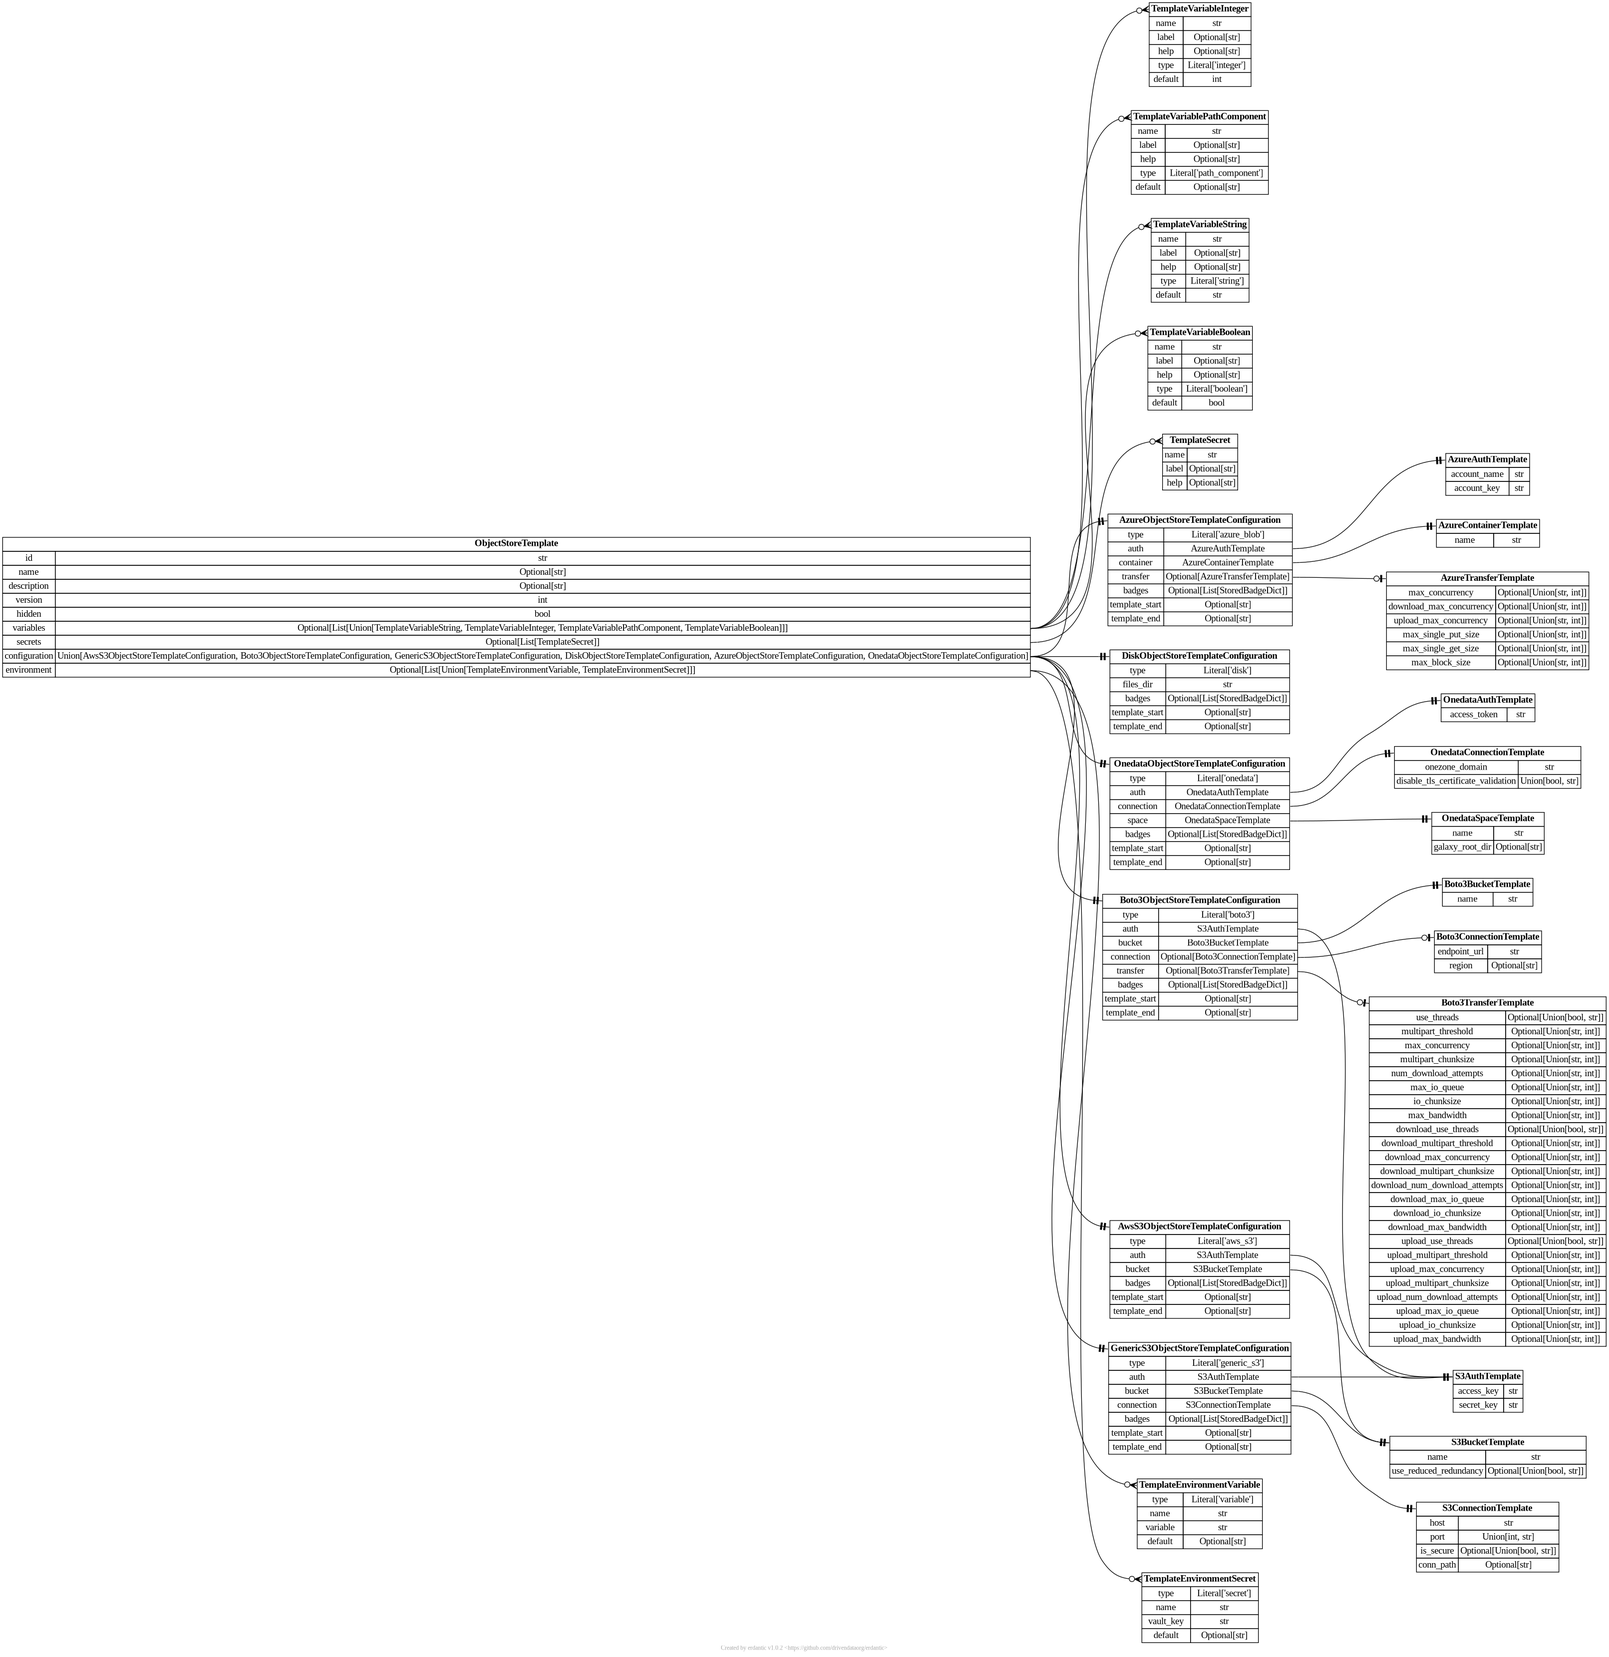
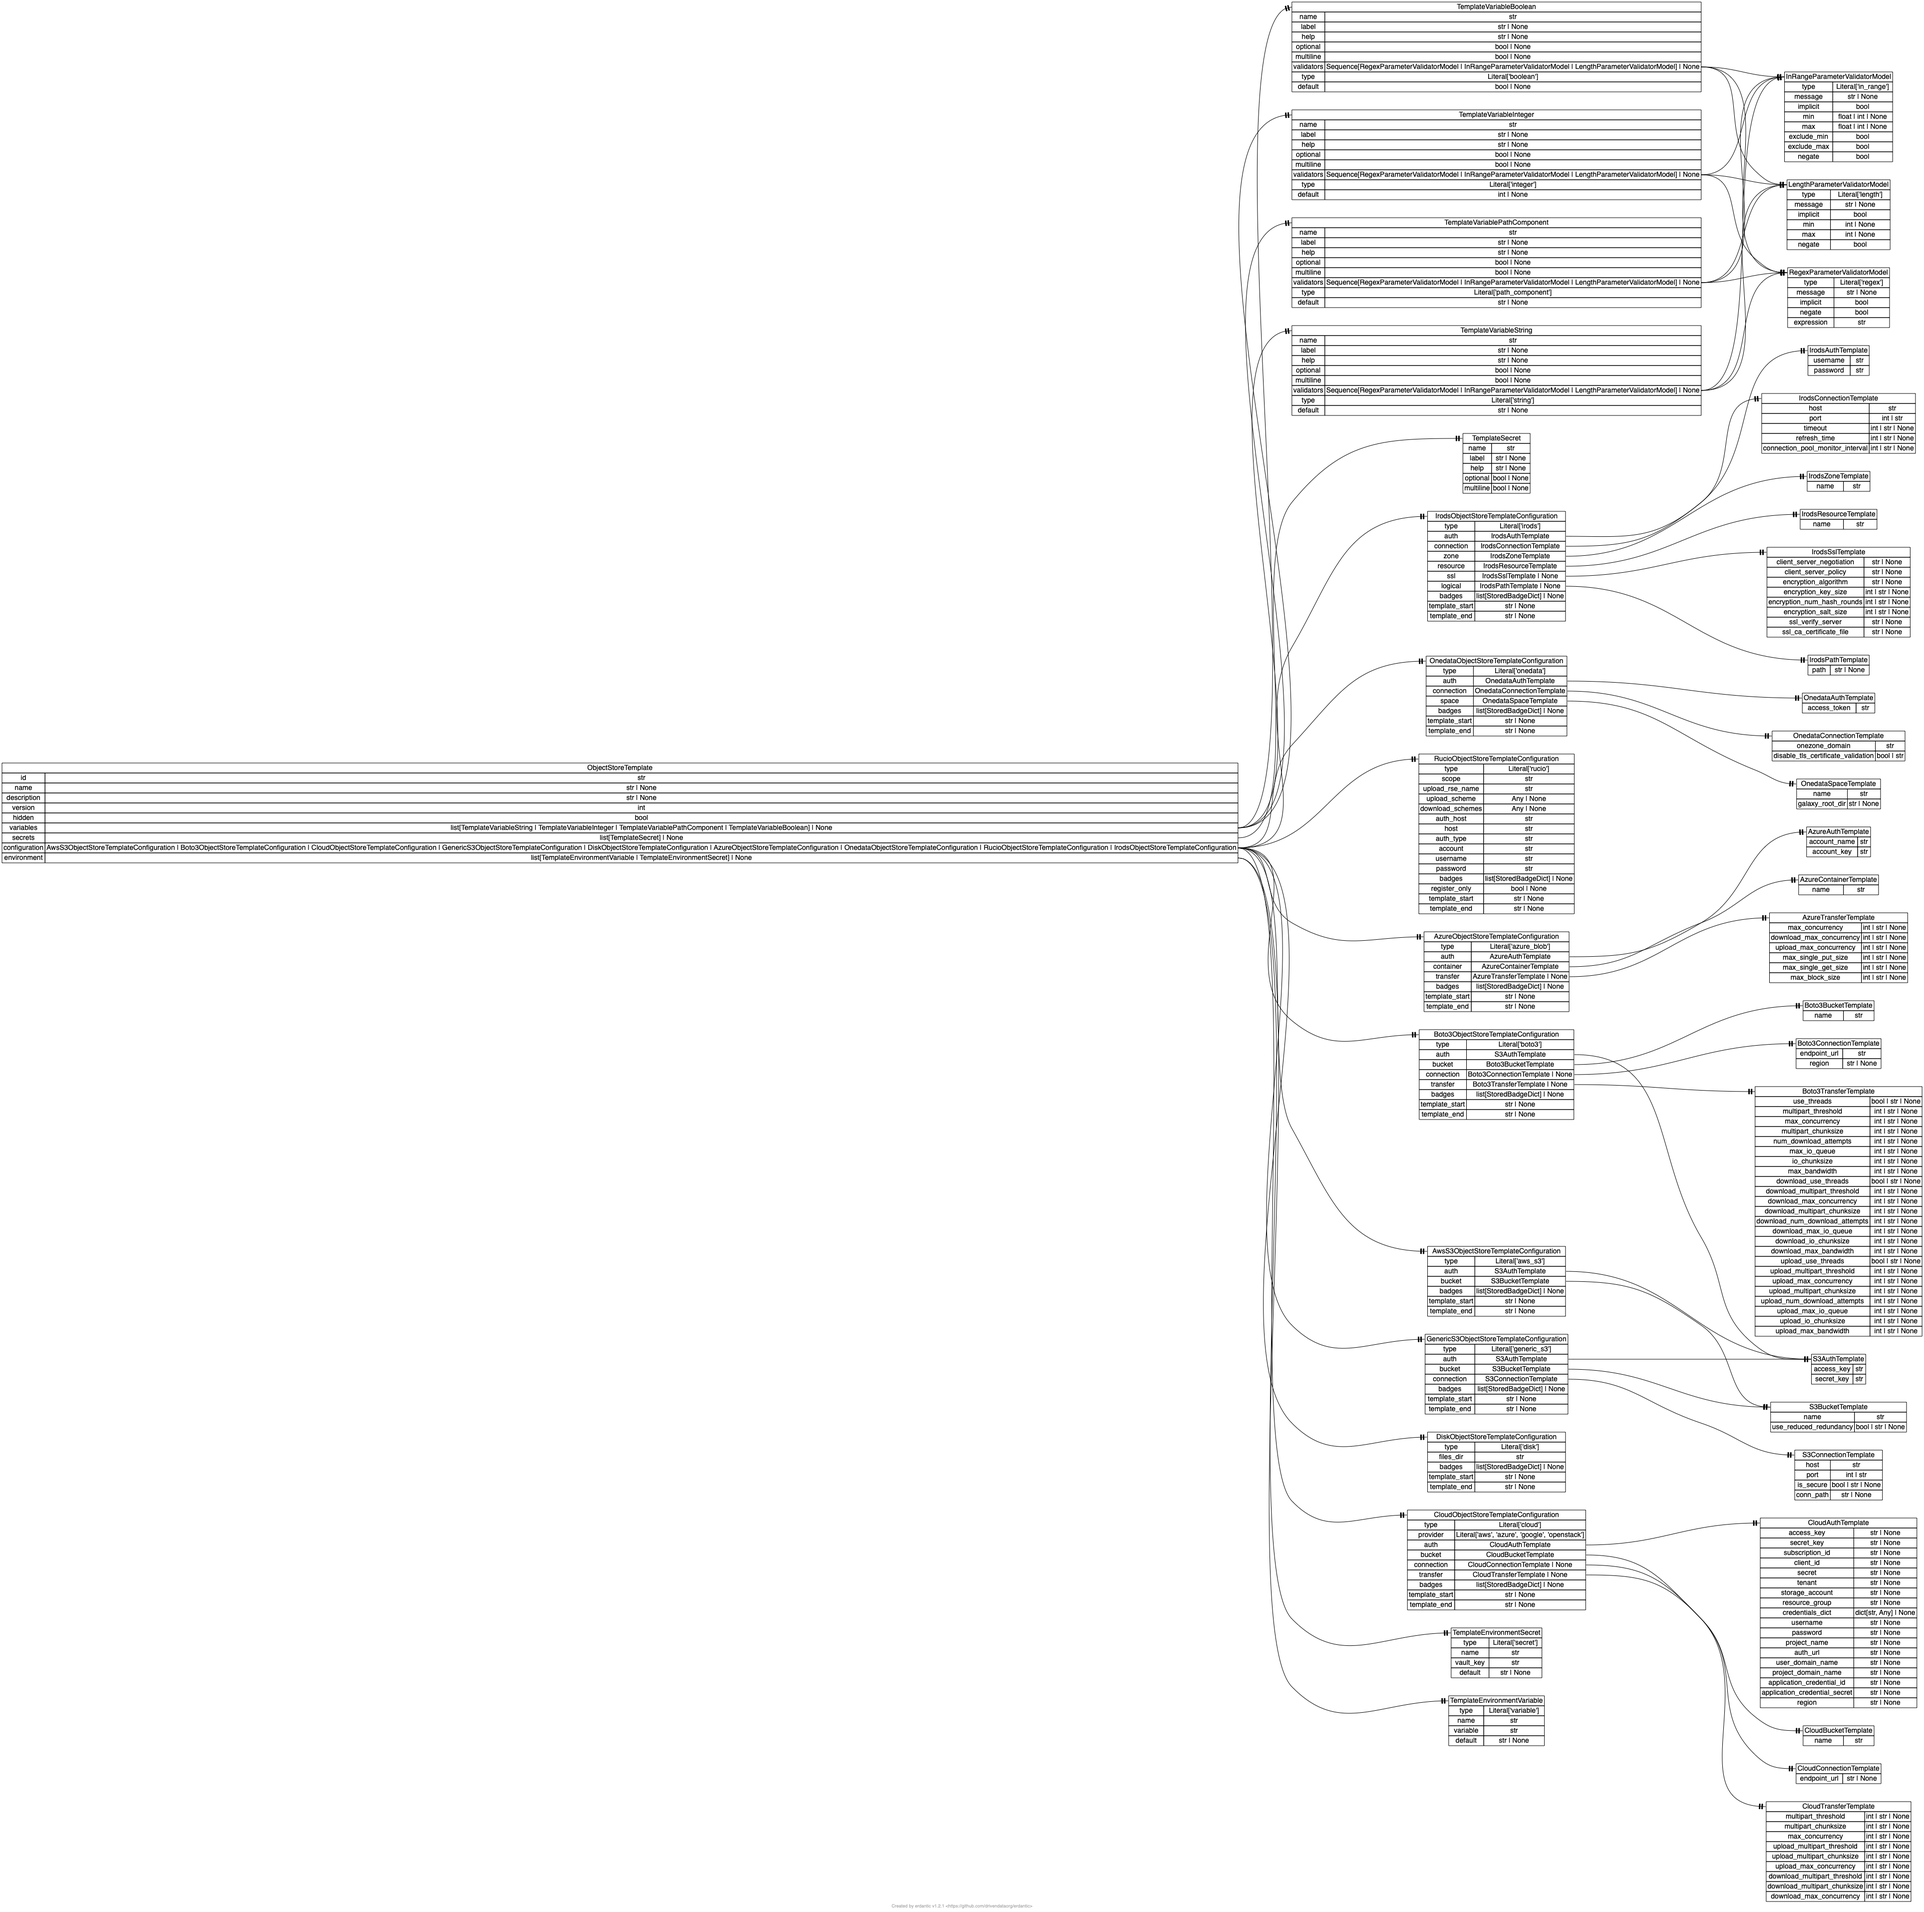
Document the cloud object store template type
Adds the admin-facing section for cloud templates alongside the other
types, generates its two schema diagrams, and notes that the template
surface is deliberately narrower than the global object store config.

Changed region(s): [[0.0, 0.0, 1.0, 0.9934], [0.4654, 0.9934, 0.5585, 1.0]]

diff --git a/doc/source/admin/gen_diagrams.py b/doc/source/admin/gen_diagrams.py
@@ -35,6 +35,8 @@ from galaxy.objectstore.templates.models import (
     AzureObjectStoreTemplateConfiguration,
     Boto3ObjectStoreConfiguration,
     Boto3ObjectStoreTemplateConfiguration,
+    CloudObjectStoreConfiguration,
+    CloudObjectStoreTemplateConfiguration,
     DiskObjectStoreConfiguration,
     DiskObjectStoreTemplateConfiguration,
     GenericS3ObjectStoreConfiguration,
@@ -50,6 +52,8 @@ class_to_diagram = {
     AzureObjectStoreTemplateConfiguration: "object_store_azure_configuration_template",
     Boto3ObjectStoreConfiguration: "object_store_boto3_configuration",
     Boto3ObjectStoreTemplateConfiguration: "object_store_boto3_configuration_template",
+    CloudObjectStoreConfiguration: "object_store_cloud_configuration",
+    CloudObjectStoreTemplateConfiguration: "object_store_cloud_configuration_template",
     DiskObjectStoreConfiguration: "object_store_disk_configuration",
     DiskObjectStoreTemplateConfiguration: "object_store_disk_configuration_template",
     AwsS3ObjectStoreTemplateConfiguration: "object_store_aws_s3_configuration_template",

diff --git a/doc/source/admin/data.md b/doc/source/admin/data.md
@@ -158,6 +158,47 @@ store configuration).
 
 ![](object_store_azure_configuration.png)
 
+#### `cloud`
+
+Object stores of the type `cloud` connect to Amazon S3, Azure Blob Storage, Google Cloud
+Storage or OpenStack Swift through a single configuration surface - the `provider` option
+selects which one. Galaxy reaches the service through
+[CloudBridge](http://cloudbridge.cloudve.org/), so one template shape covers all four,
+including native Swift access that the S3 compatible object stores cannot offer.
+
+Here is a template for AWS S3 buckets. Pointing it at a different cloud is a matter of
+changing `provider` and the matching `auth` fields.
+
+```{literalinclude} ../../../lib/galaxy/objectstore/templates/examples/production_cloud_aws.yml
+:language: yaml
+```
+
+Large datasets are transferred as multiple parts in parallel in both directions. The
+optional `transfer` section tunes the size at which that kicks in, the size of each part,
+and how many parts are transferred at once; prefixing any of those options with `upload_`
+or `download_` tunes just one direction.
+
+The providers named by your templates decide which client libraries Galaxy needs, so
+Galaxy's dependency installer installs the matching CloudBridge extras for the providers
+used by your templates and by `object_store_conf.yml`.
+
+What a template may set is deliberately narrower than what the object store itself accepts
+in `object_store_conf.yml`: user defined stores are stored in Galaxy's database and are
+expected to keep working indefinitely, so templates cannot hand out short lived credentials
+(which would expire and leave the user with a broken store) or point Galaxy at credential
+files on the server.
+
+The syntax for the `configuration` section of `cloud` templates looks like this.
+
+![](object_store_cloud_configuration_template.png)
+
+At runtime, after the `configuration` template is expanded, the resulting dictionary
+passed to Galaxy's object store infrastructure looks like this and should match a subset
+of what you'd be able to add directly to `object_store_conf.yml` (Galaxy's global object
+store configuration).
+
+![](object_store_cloud_configuration.png)
+
 #### `aws_s3` (Legacy)
 
 Object stores of the type `aws_s3` are be used to treat AWS Simple Storage Service (S3) buckets
@@ -261,6 +302,16 @@ and you're comfortable with it storing your user's secrets.
 ```
 
 ![Screenshot](user_object_store_form_full_aws_s3.png)
+
+#### Allow Users to Define Cloud Storage Buckets as Object Stores
+
+This template lets users bring their own AWS S3 bucket through Galaxy's multi-cloud
+storage plugin. The same form works for Azure, Google Cloud and OpenStack Swift by
+changing the `provider` and `auth` fields.
+
+```{literalinclude} ../../../lib/galaxy/objectstore/templates/examples/production_cloud_aws.yml
+:language: yaml
+```
 
 #### Allow Users to Define Google Cloud Provider S3 Interop Storage Buckets as Object Stores
 
